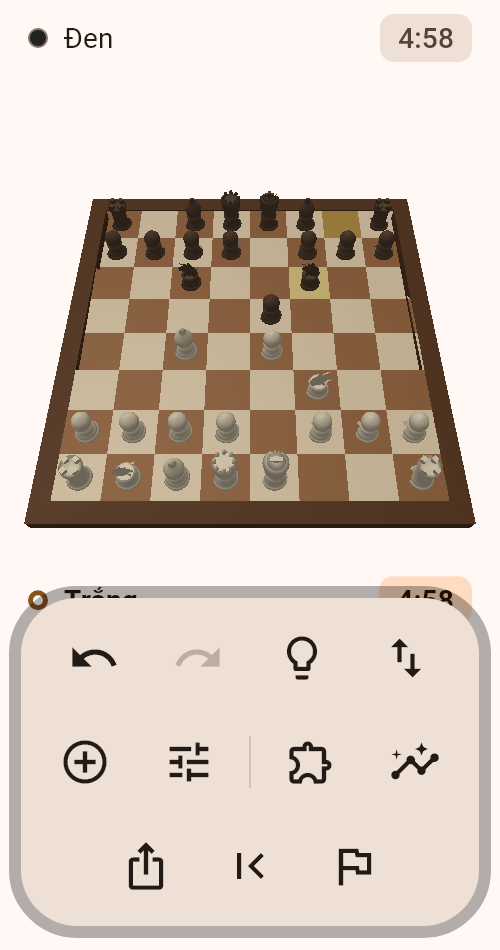
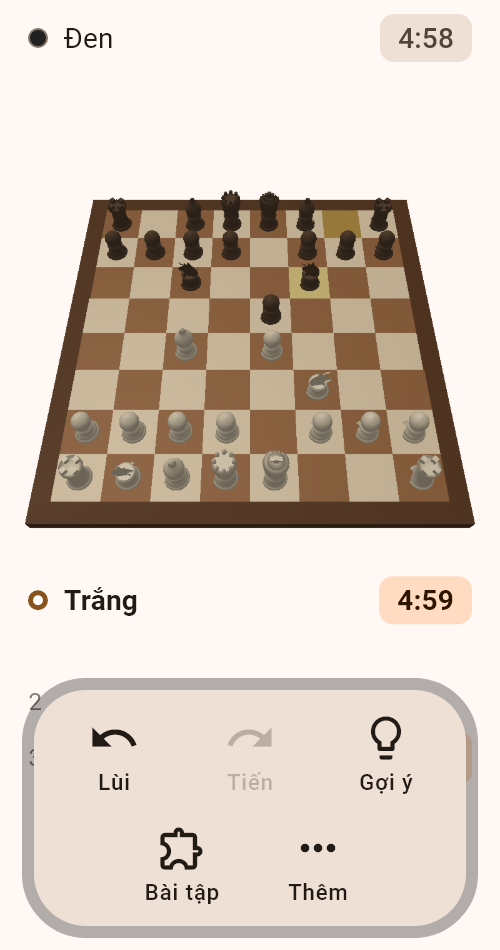
Phat hanh 1.5.0: them muc luyen tan cuoc vao landing page
Muc moi "Biet cach ket thuc van" dat ngay sau "Loi cua ban", kem hai anh
dung tu ma that. Bo sung dong tan cuoc vao bang tinh nang theo thiet bi,
va sua chu thich anh bang chon bai tap tu "bon che do" thanh "nam che do".

Sua mot cho huong dan da sai: thanh thao tac gio khong con nut ⊕, nen
buoc dau cua "Choi van dau" doi thanh nhan Them roi chon Van moi.

diff --git a/index.html b/index.html
@@ -174,6 +174,7 @@
       <a href="#ba-chieu">Bàn 3D</a>
       <a href="#bai-tap">Bài tập</a>
       <a href="#loi-cua-ban">Lỗi của bạn</a>
+      <a href="#tan-cuoc">Tàn cuộc</a>
       <a href="#phan-tich">Phân tích</a>
       <a href="#lich-su">Lịch sử</a>
       <a href="#ngon-ngu">Ngôn ngữ</a>
@@ -195,7 +196,7 @@
         Không tài khoản, không quảng cáo, không thu thập dữ liệu — mở lên là chơi.
       </p>
       <div class="badges">
-        <span class="badge">Phiên bản 1.4 · beta</span>
+        <span class="badge">Phiên bản 1.5 · beta</span>
         <span class="badge">Không quảng cáo</span>
         <span class="badge">Bàn cờ 3D</span>
         <span class="badge">Tiếng Việt &amp; English</span>
@@ -209,7 +210,7 @@
         <a class="btn btn-ghost" href="#huong-dan">Cách cài đặt</a>
       </div>
       <p class="btn-note">
-        Phiên bản 1.4.0 · 22 MB · Android 5.0 trở lên ·
+        Phiên bản 1.5.0 · 22 MB · Android 5.0 trở lên ·
         chưa có trên Google Play nên phát hành bằng tệp APK.
       </p>
     </div>
@@ -378,10 +379,62 @@
         </div>
       </div>
       <figure>
-        <img src="anh/bai-tap-che-do.png" alt="Bảng chọn chế độ luyện tập: Lỗi của bạn, Luyện tập, Bài hằng ngày, Đua thời gian">
-        <figcaption>Bốn chế độ luyện tập. "Lỗi của bạn" đứng đầu khi có bài tới hạn.</figcaption>
+        <img src="anh/bai-tap-che-do.png" alt="Bảng chọn chế độ luyện tập: Lỗi của bạn, Luyện tập, Bài hằng ngày, Đua thời gian, Luyện tàn cuộc">
+        <figcaption>Năm chế độ luyện tập. "Lỗi của bạn" đứng đầu khi có bài tới hạn.</figcaption>
       </figure>
     </div>
+  </div>
+</section>
+
+<section id="tan-cuoc">
+  <div class="wrap">
+    <h2>Biết cách kết thúc ván</h2>
+    <p class="sub">
+      Hơn quân mà không biết chiếu hết thì vẫn hòa. Bốn kỹ thuật ai cũng phải biết.
+    </p>
+    <div class="grid cols-2">
+      <div>
+        <div class="card" style="margin-bottom:14px">
+          <h3>Thế cờ sinh mới mỗi lần</h3>
+          <p>
+            Không phải một bộ đề cố định để học thuộc. Mỗi lần vào là một thế
+            khác, nên bạn buộc phải hiểu cách làm chứ không nhớ chuỗi nước.
+          </p>
+        </div>
+        <div class="card" style="margin-bottom:14px">
+          <h3>Máy chống đỡ hết sức</h3>
+          <p>
+            Máy giữ bên yếu và đi hết khả năng. Thắng được là do bạn biết cách,
+            không phải do máy đi hớ.
+          </p>
+        </div>
+        <div class="card" style="margin-bottom:14px">
+          <h3>Cách làm viết thành lời</h3>
+          <p>
+            Không có nút chỉ nước đi. Thay vào đó là nguyên tắc nằm ngay dưới bàn
+            cờ: <em>"Một Xe không đủ, phải có Vua đi cùng. Dựng hàng rào bằng Xe
+            để giới hạn Vua đối phương, đưa Vua mình lên đối trụ, rồi đẩy hàng
+            rào tiến thêm một hàng."</em> Nhớ cách làm thì dùng lại được ở ván
+            sau; nhớ một nước đi thì lần sau vẫn bí.
+          </p>
+        </div>
+        <div class="card">
+          <h3>Đo bằng số nước, không phải số lần</h3>
+          <p>
+            App ghi lại số nước ít nhất bạn từng thắng ở mỗi dạng. Thắng gọn dần
+            mới là học được kỹ thuật.
+          </p>
+        </div>
+      </div>
+      <figure>
+        <img src="anh/tan-cuoc-chon-bai.png" alt="Bảng chọn bài tàn cuộc: Hai Xe chiếu hết, Hậu chiếu hết, Xe chiếu hết, Đưa tốt phong cấp">
+        <figcaption>Bốn dạng xếp từ dễ tới khó, kèm kỷ lục số nước của bạn.</figcaption>
+      </figure>
+    </div>
+    <figure style="margin-top:18px">
+      <img src="anh/man-hinh-tan-cuoc.png" alt="Màn hình luyện tàn cuộc: bàn cờ ba chiều, số nước còn lại, và nguyên tắc viết thành lời bên dưới">
+      <figcaption>Số nước còn lại đếm ngược ở góc phải; cách làm nằm ngay dưới bàn cờ.</figcaption>
+    </figure>
   </div>
 </section>
 
@@ -511,6 +564,7 @@
           <tr><td>Đấu với máy, 8 mức</td><td class="y">Có</td><td class="y">Có</td><td class="p">Có, mức cao yếu hơn</td></tr>
           <tr><td>Máy nghĩ nền, không đơ giao diện</td><td class="y">Có</td><td class="y">Có</td><td class="n">Không</td></tr>
           <tr><td>3000 bài tập chiến thuật</td><td class="y">Có</td><td class="y">Có</td><td class="y">Có</td></tr>
+          <tr><td>Luyện tàn cuộc, 4 dạng</td><td class="y">Có</td><td class="y">Có</td><td class="y">Có</td></tr>
           <tr><td>Đồng hồ thi đấu, 7 thể thức</td><td class="y">Có</td><td class="y">Có</td><td class="y">Có</td></tr>
           <tr><td>Âm thanh và rung phản hồi</td><td class="y">Có</td><td class="p">Chỉ âm thanh</td><td class="p">Chỉ âm thanh</td></tr>
           <tr><td>Lưu ván đang chơi</td><td class="y">Có</td><td class="y">Có</td><td class="y">Có</td></tr>
@@ -543,10 +597,10 @@
       <div>
         <h3 style="font-size:17px;margin:0 0 14px">Chơi ván đầu</h3>
         <ol class="steps">
-          <li>Nhấn nút <b>⊕</b> trên thanh dưới cùng để mở bảng ván mới.</li>
+          <li>Trên thanh dưới cùng, nhấn <b>Thêm</b> rồi chọn <b>Ván mới</b>.</li>
           <li>Chọn <b>Máy</b>, chọn màu quân và kéo thanh mức độ khó.</li>
           <li>Nhấn <b>Bắt đầu</b>. Chạm quân rồi chạm ô đích, hoặc kéo thả.</li>
-          <li>Bí quá thì nhấn nút <b>bóng đèn</b> để máy gợi ý nước đi.</li>
+          <li>Bí quá thì nhấn <b>Gợi ý</b> để máy chỉ nước đi.</li>
         </ol>
       </div>
     </div>
